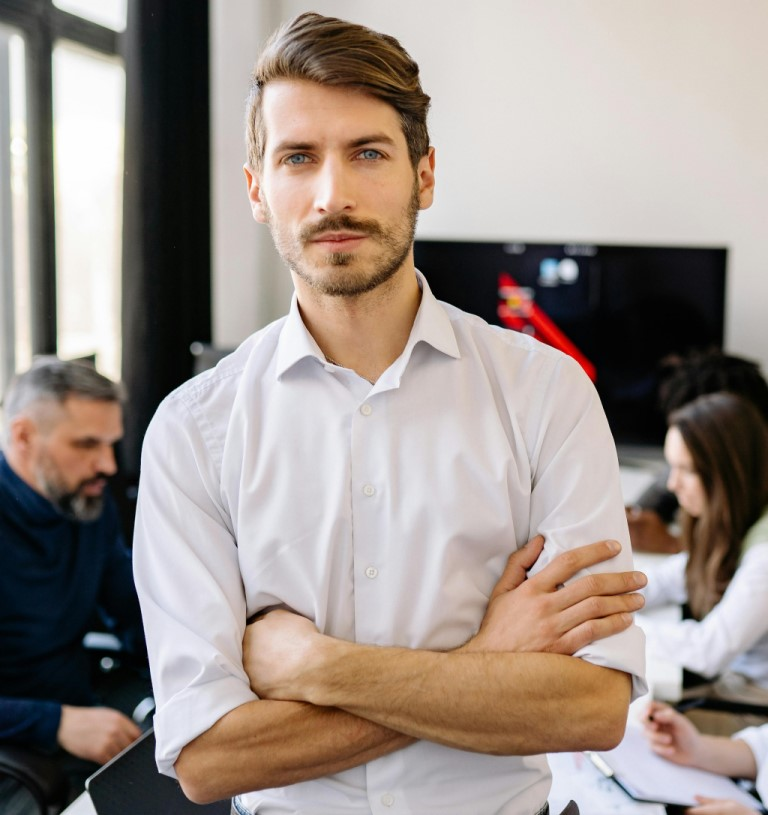
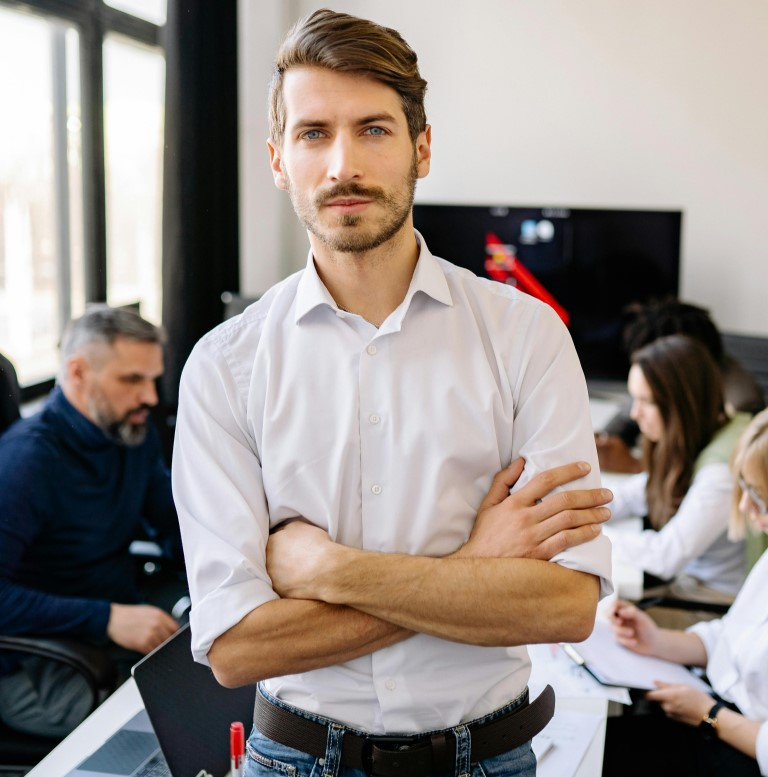
fix: respect different pic. resolutions and sizes

diff --git a/src/templates/index.html b/src/templates/index.html
@@ -10,14 +10,23 @@
   <header>
     <div class="ribbon" aria-hidden="true"></div>
     <div class="info">
-      <picture>
+      <picture class="responsive-img">
         <source
+        media="(min-width: 480px)"
         srcset="
-        ../images/image1-480.jpg 480w,
-        ../images/image1-768.jpg 768w,
-        ../images/image1-1024.jpg 1024w
+        ../images/image1-768.jpg 1x,
+        ../images/image1-1536.jpg 2x,
+        ../images/image1-2304.jpg 3x
         "
         >
+        <source
+        srcset="
+        ../images/image1-mobile-480.jpg 1x,
+        ../images/image1-mobile-768.jpg 2x,
+        ../images/image1-mobile-1024.jpg 3x
+        "
+        >
+        <img src="../images/image1-mobile-480.jpg" alt="developer's picture">
       </picture>
       <section id="about">
         <h2 class="about__header">About me</h2>
@@ -57,14 +66,23 @@
         <i class="devicon-linkedin-plain" aria-label="Linkedin profile link"></i>
       </div>
     </section>
-    <picture>
+    <picture class="responsive-img">
       <source
+      media="(min-width: 480px)"
       srcset="
-      ../images/image2-480.jpg 480w,
-      ../images/image2-768.jpg 768w,
-      ../images/image2-1024.jpg 1024w
+      ../images/image2-768.jpg 1x,
+      ../images/image2-1536.jpg 2x,
+      ../images/image2-2304.jpg 3x
       "
       >
+      <source
+      srcset="
+      ../images/image2-mobile-480.jpg 1x,
+      ../images/image2-mobile-768.jpg 2x,
+      ../images/image2-mobile-1024.jpg 3x
+      "
+      >
+      <img src="../images/image2-mobile-480.jpg" alt="developer's picture">
     </picture>
   </footer>
 </body>

diff --git a/src/styles/style.css b/src/styles/style.css
@@ -7,15 +7,36 @@
     padding: 0;
     box-sizing: border-box;
   }
-  html, body {
-    height: 100%;
-    font-family: sans-serif;
-  }
-  img, picture, video, canvas, svg {
-    display: block;
-    max-width: 100%;
-  }
+
+html, body {
+  height: 100%;
+  font-family: sans-serif;
+}
+
+img, picture, video, canvas, svg {
+  display: block;
+  max-width: 100%;
+}
 
   /* ========================
-   CSS reset
+   Header styling
 ======================== */
+
+.info {
+  display: flex;
+  flex-direction: column;
+  align-items: center;
+}
+
+.ribbon {
+  position: absolute;
+  height: 550px;
+  width: 100%;
+  z-index: -1;
+  background-image: linear-gradient(150deg, rgb(223, 125, 141) 70%, white 70% );
+}
+
+.responsive-img {
+  margin: 8%;
+  box-shadow: 0px 0px 5px 0px rgba(97, 95, 95, 0.619);
+}
